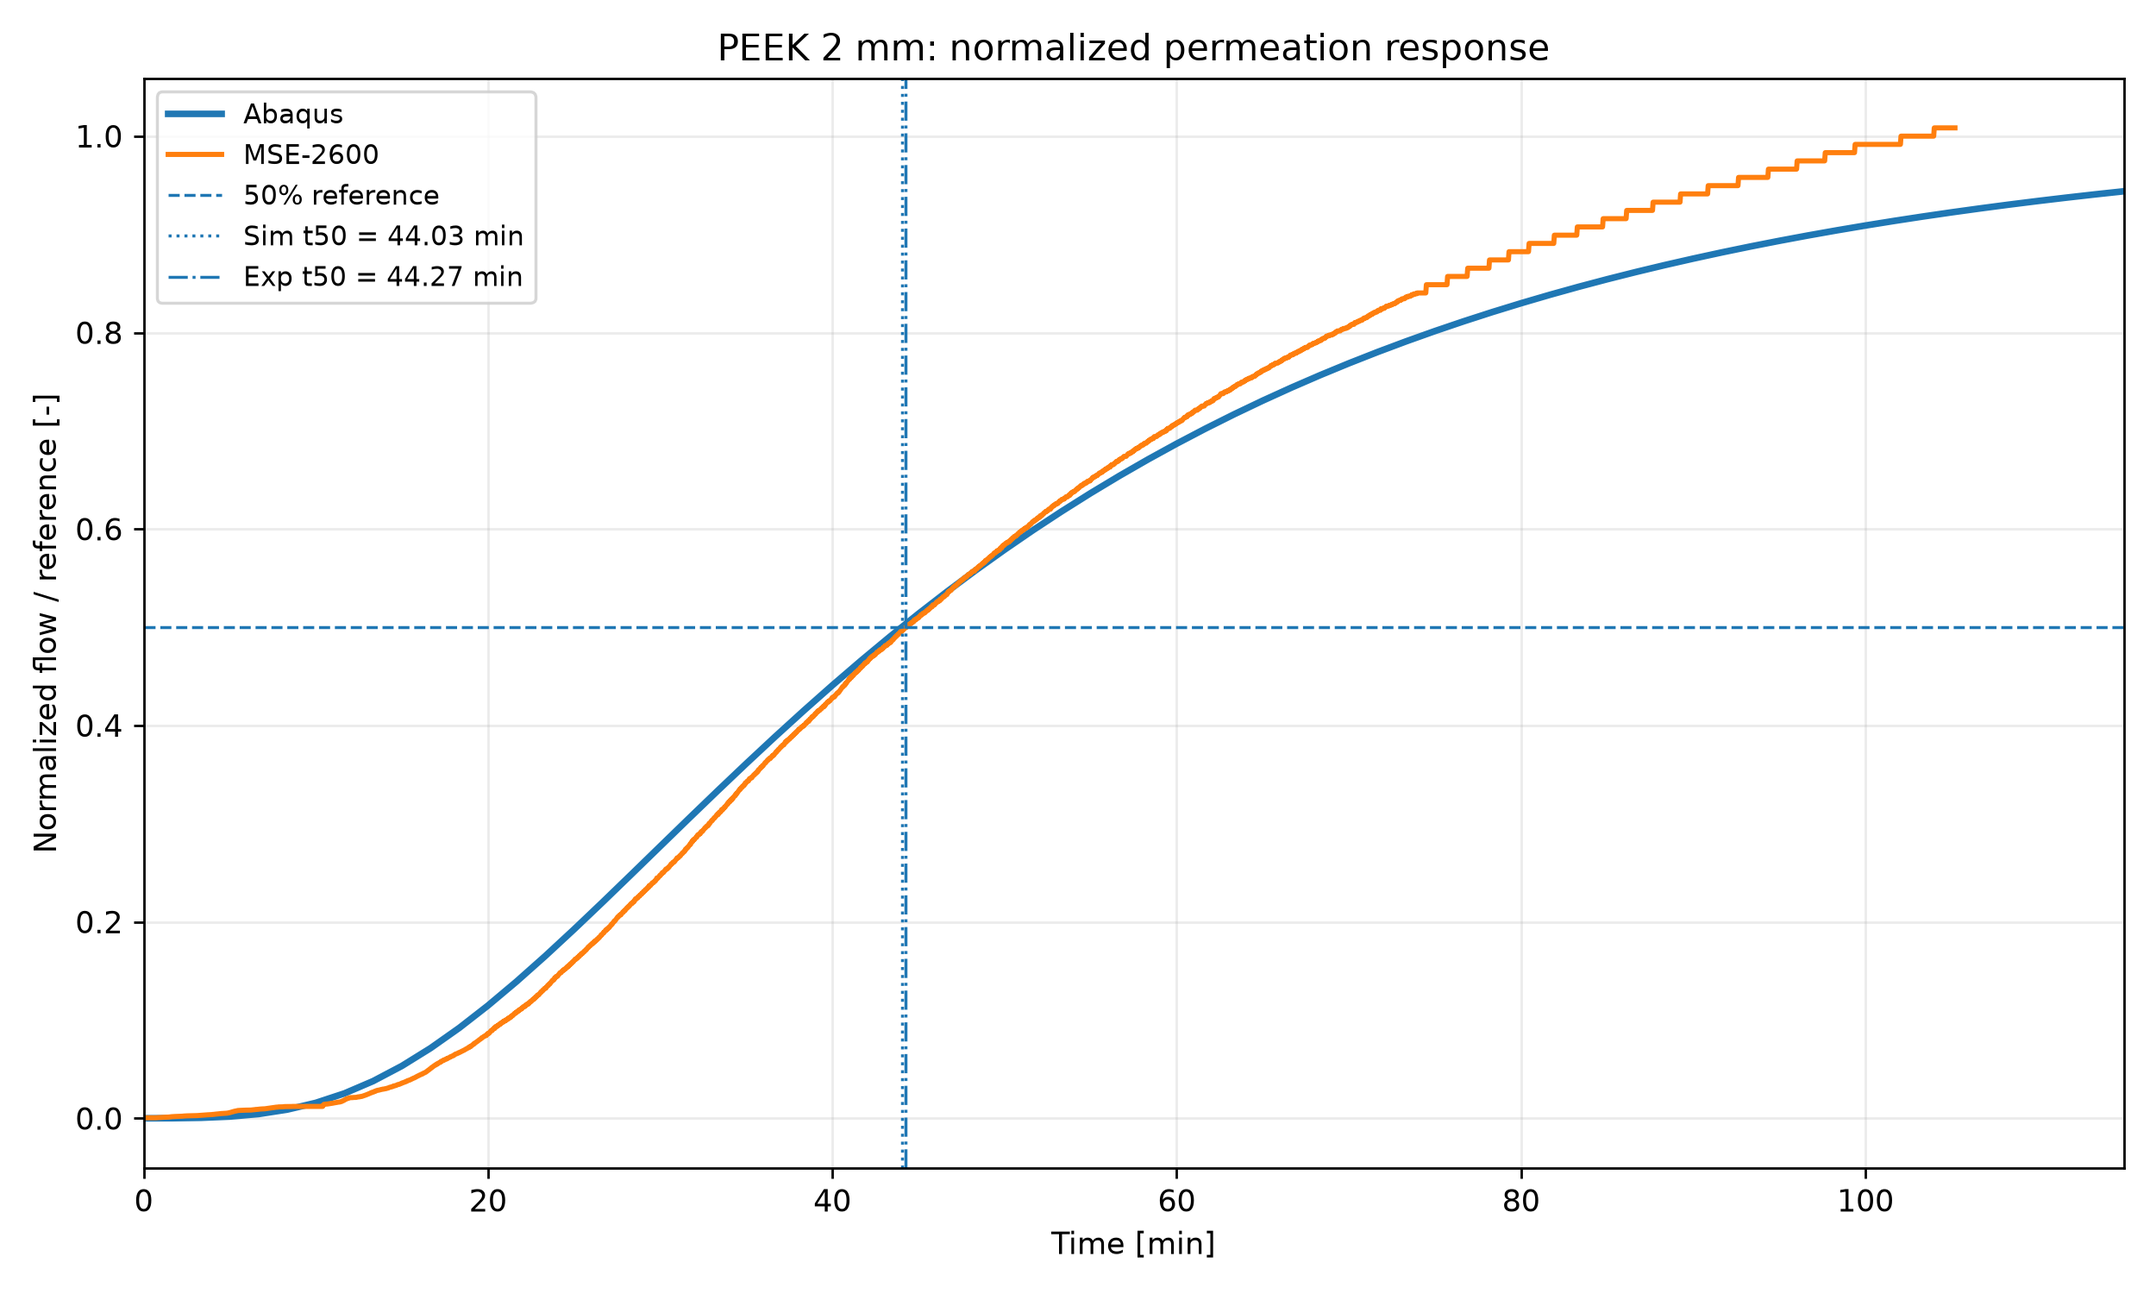
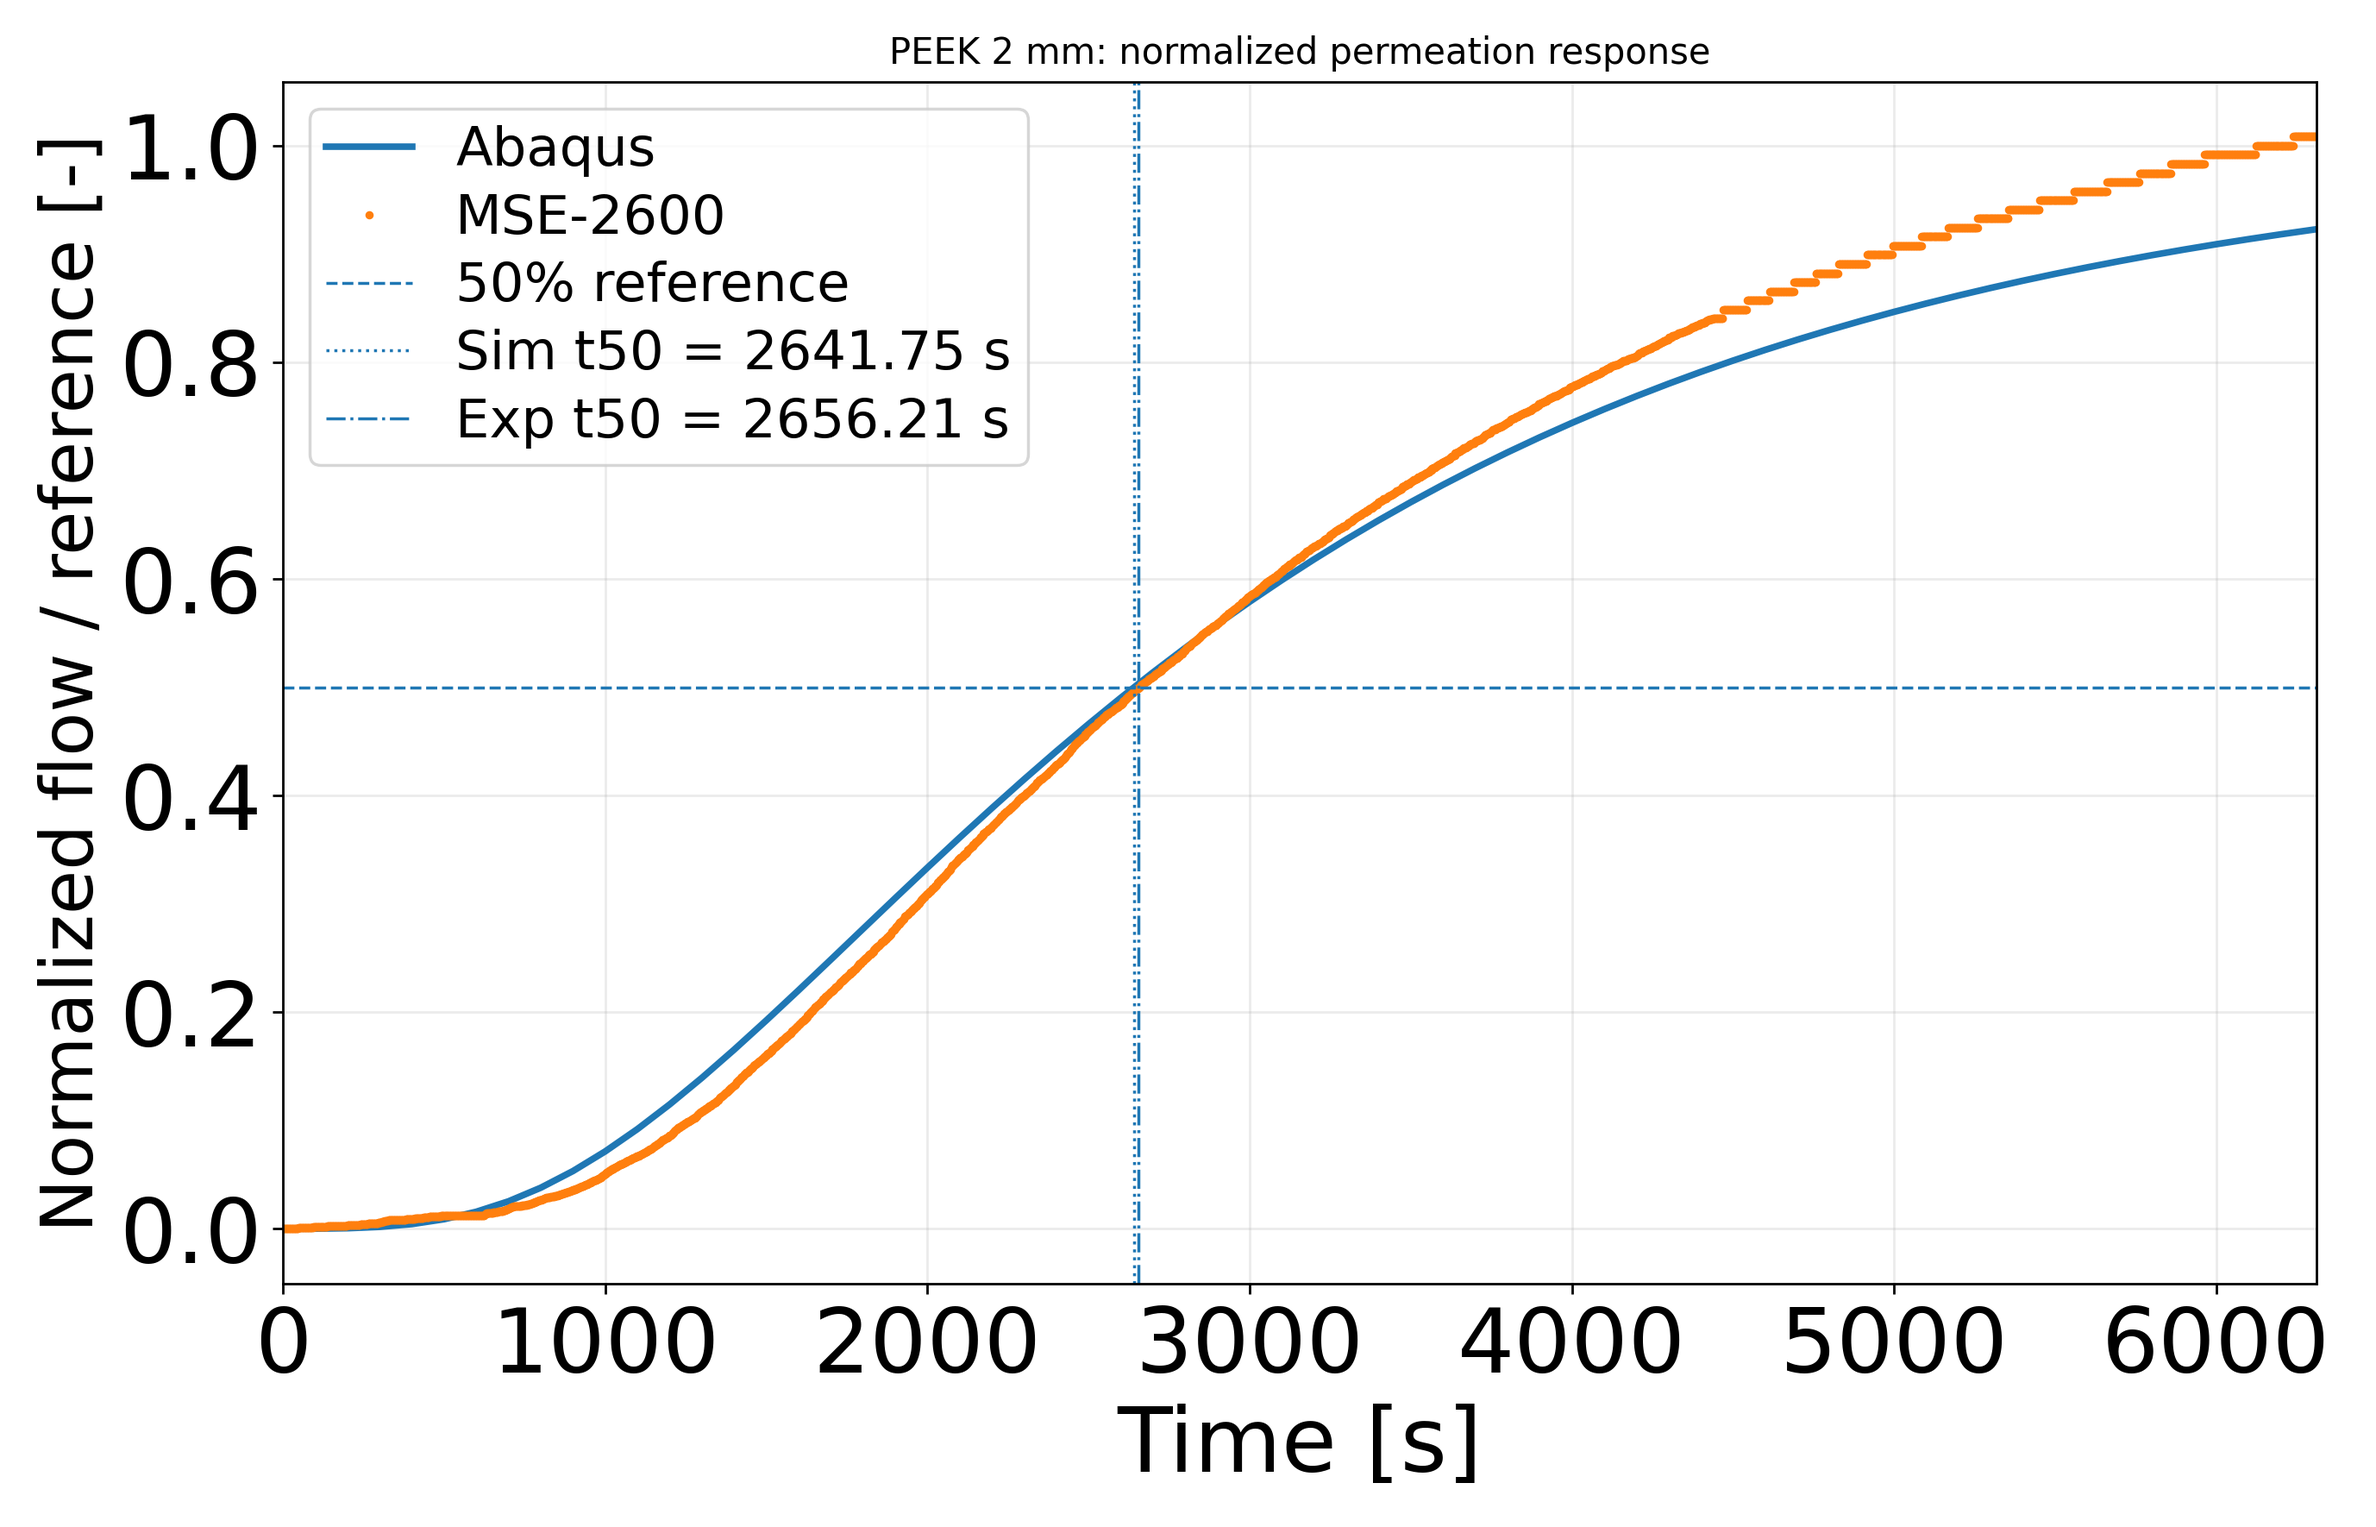
new result

diff --git a/compare_peek_abaqus_mse2600.py b/compare_peek_abaqus_mse2600.py
@@ -19,8 +19,8 @@ import matplotlib.pyplot as plt
 # 1. SETTINGS: EDIT HERE FIRST
 # ============================================================
 BASE_DIR = Path(__file__).resolve().parent
-ABAQUS_RPT = BASE_DIR / "PEEK_2mm_RE.rpt"
-MSE_CSV = BASE_DIR / "Diffusion" / "mse2600_log_20261020_2.csv"
+ABAQUS_RPT = BASE_DIR / "PEEK_2mm_RFL_total.rpt"
+MSE_CSV = BASE_DIR / "Diffusion" / "mse2600_log_20260716_1.csv"
 OUTPUT_DIR = BASE_DIR / "comparison_results"
 
 # Geometric scaling: 2D width x assumed unit out-of-plane depth.
@@ -34,7 +34,7 @@ EXP_AREA_MM2 = 41.0 * 41.0
 RFL_SIGN = +1.0
 
 # Ideal-gas conversion: Q(Pa*m^3/s) = (mass flow kg/s) * R*T/M_He.
-TEMPERATURE_K = 295.65
+TEMPERATURE_K = 297.15
 GAS_CONSTANT = 8.314462618     # Pa*m^3/(mol*K)
 HE_MOLAR_MASS_KG_MOL = 4.002602e-3
 
@@ -327,7 +327,7 @@ def main(argv=None):
     norm_rmse = (float(np.sqrt(np.mean((aligned["exp_norm"] - aligned["sim_norm"]) ** 2)))
                  if len(aligned) else float("nan"))
     summary = (
-        "PP 3 mm: Abaqus vs MSE-2600 (NO FITTING)\n"
+        "PEEK 2 mm: Abaqus vs MSE-2600 (NO FITTING)\n"
         "=====================================================\n"
         f"RPT rows: {len(sim)}, MSE FINE_TEST rows: {len(exp)}\n"
         f"Model area: {model_area_mm2:.6g} mm^2 (assumed depth={MODEL_OUT_OF_PLANE_MM} mm)\n"
